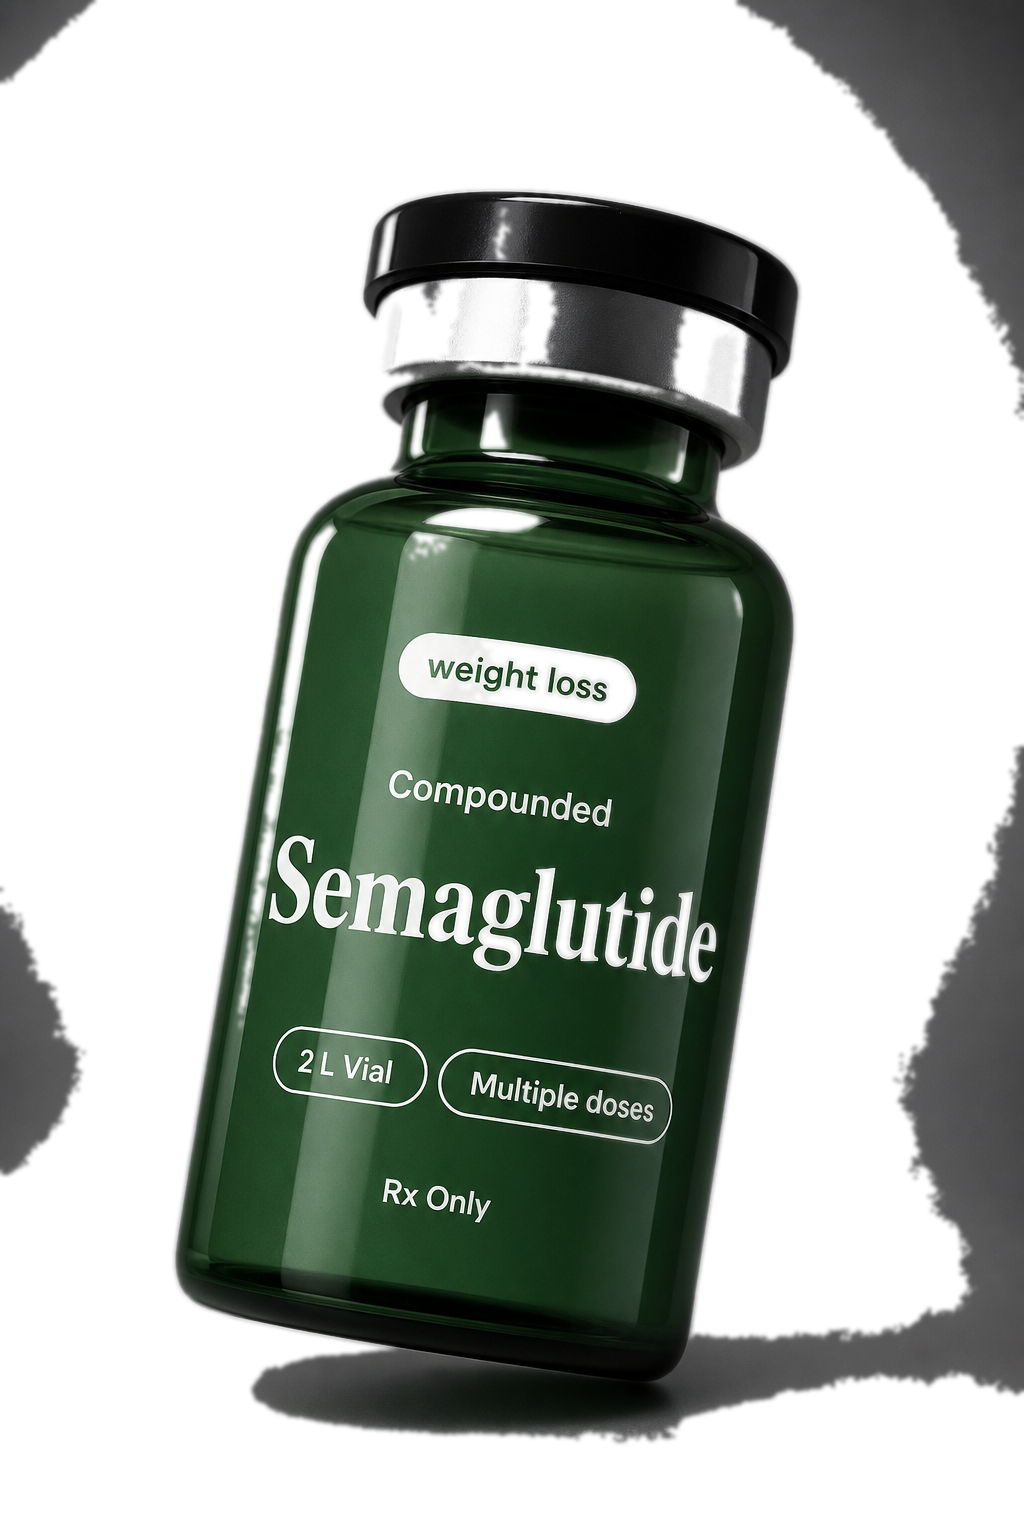
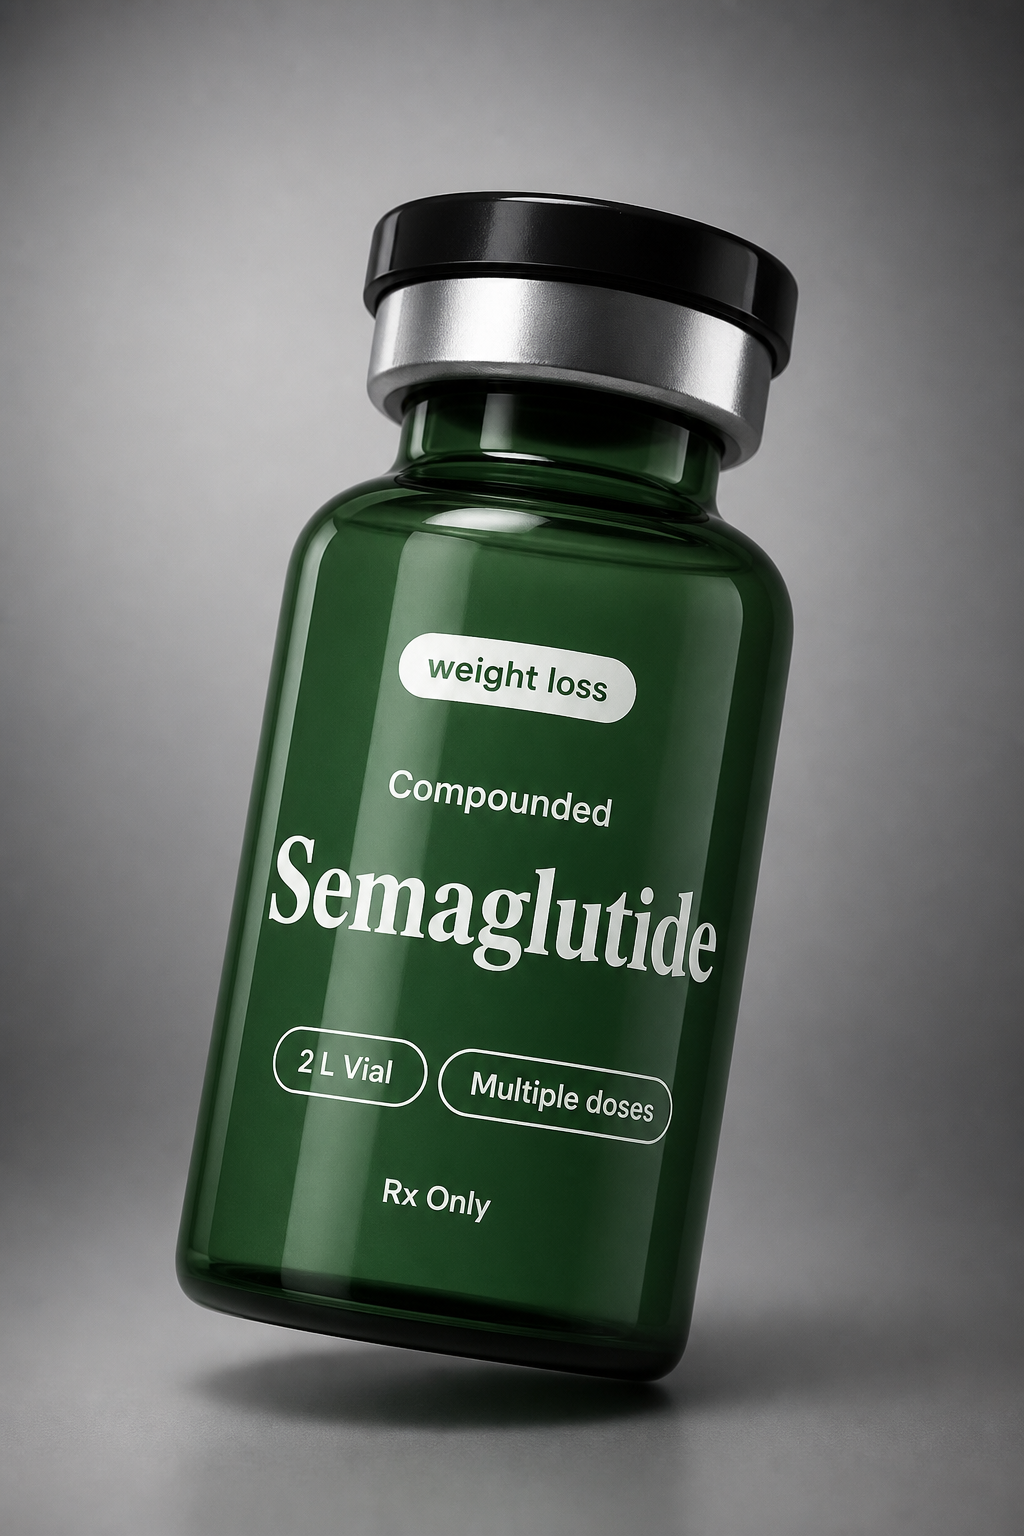
Use original premium vial images with matching card backgrounds
- Vial cards get vial-photo class with gray gradient background matching images
- Object-fit cover for seamless studio photography look
- Removes artifacts from imperfect background removal

diff --git a/index.html b/index.html
@@ -475,6 +475,17 @@
       transition: transform 0.4s ease;
     }
 
+    /* Vial images: fill the entire visual area to cover gray bg seamlessly */
+    .treatment-card-visual.vial-photo {
+      background: linear-gradient(160deg, #5a5a5c 0%, #9a9899 50%, #b5b0b1 100%);
+    }
+    .treatment-card-visual.vial-photo img.product-photo {
+      height: 100%;
+      width: 100%;
+      object-fit: cover;
+      filter: none;
+    }
+
     .treatment-card:hover .product-photo {
       transform: scale(1.04);
     }
@@ -1242,7 +1253,7 @@
       </div>
       <div class="treatments-grid">
         <a href="weight-loss.html" class="treatment-card reveal reveal-delay-1">
-          <div class="treatment-card-visual">
+          <div class="treatment-card-visual vial-photo">
             <img src="assets/brand/freeley-vial-semaglutide.png" class="product-photo" alt="GLP-1 Weight Loss">
           </div>
           <div class="treatment-card-body">
@@ -1280,7 +1291,7 @@
           </div>
         </a>
         <a href="longevity.html" class="treatment-card reveal reveal-delay-4">
-          <div class="treatment-card-visual">
+          <div class="treatment-card-visual vial-photo">
             <img src="assets/brand/freeley-vial-sermorelin.png" class="product-photo" alt="Longevity & Peptides">
           </div>
           <div class="treatment-card-body">
